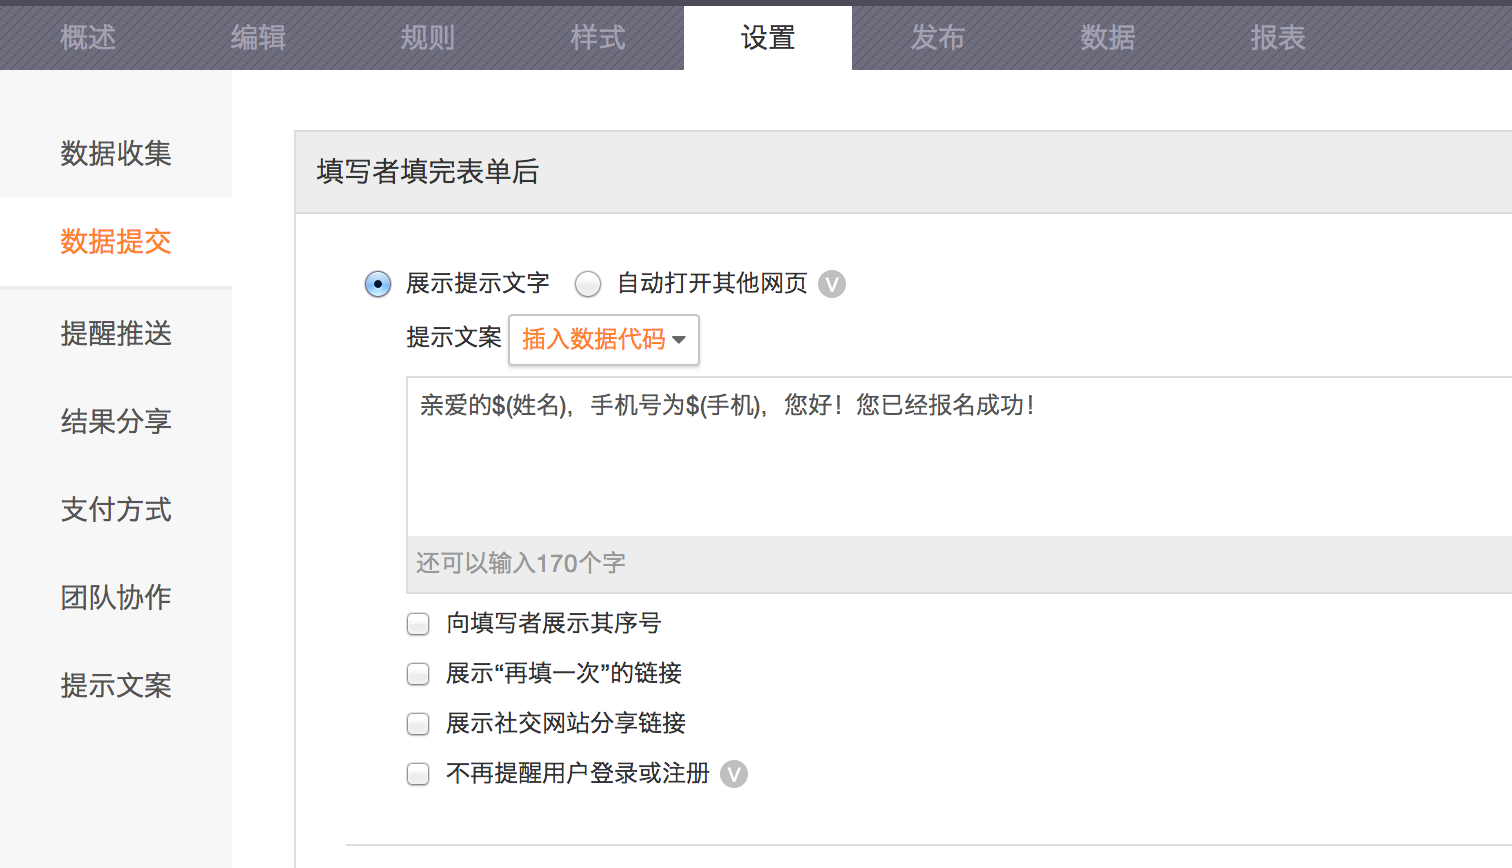
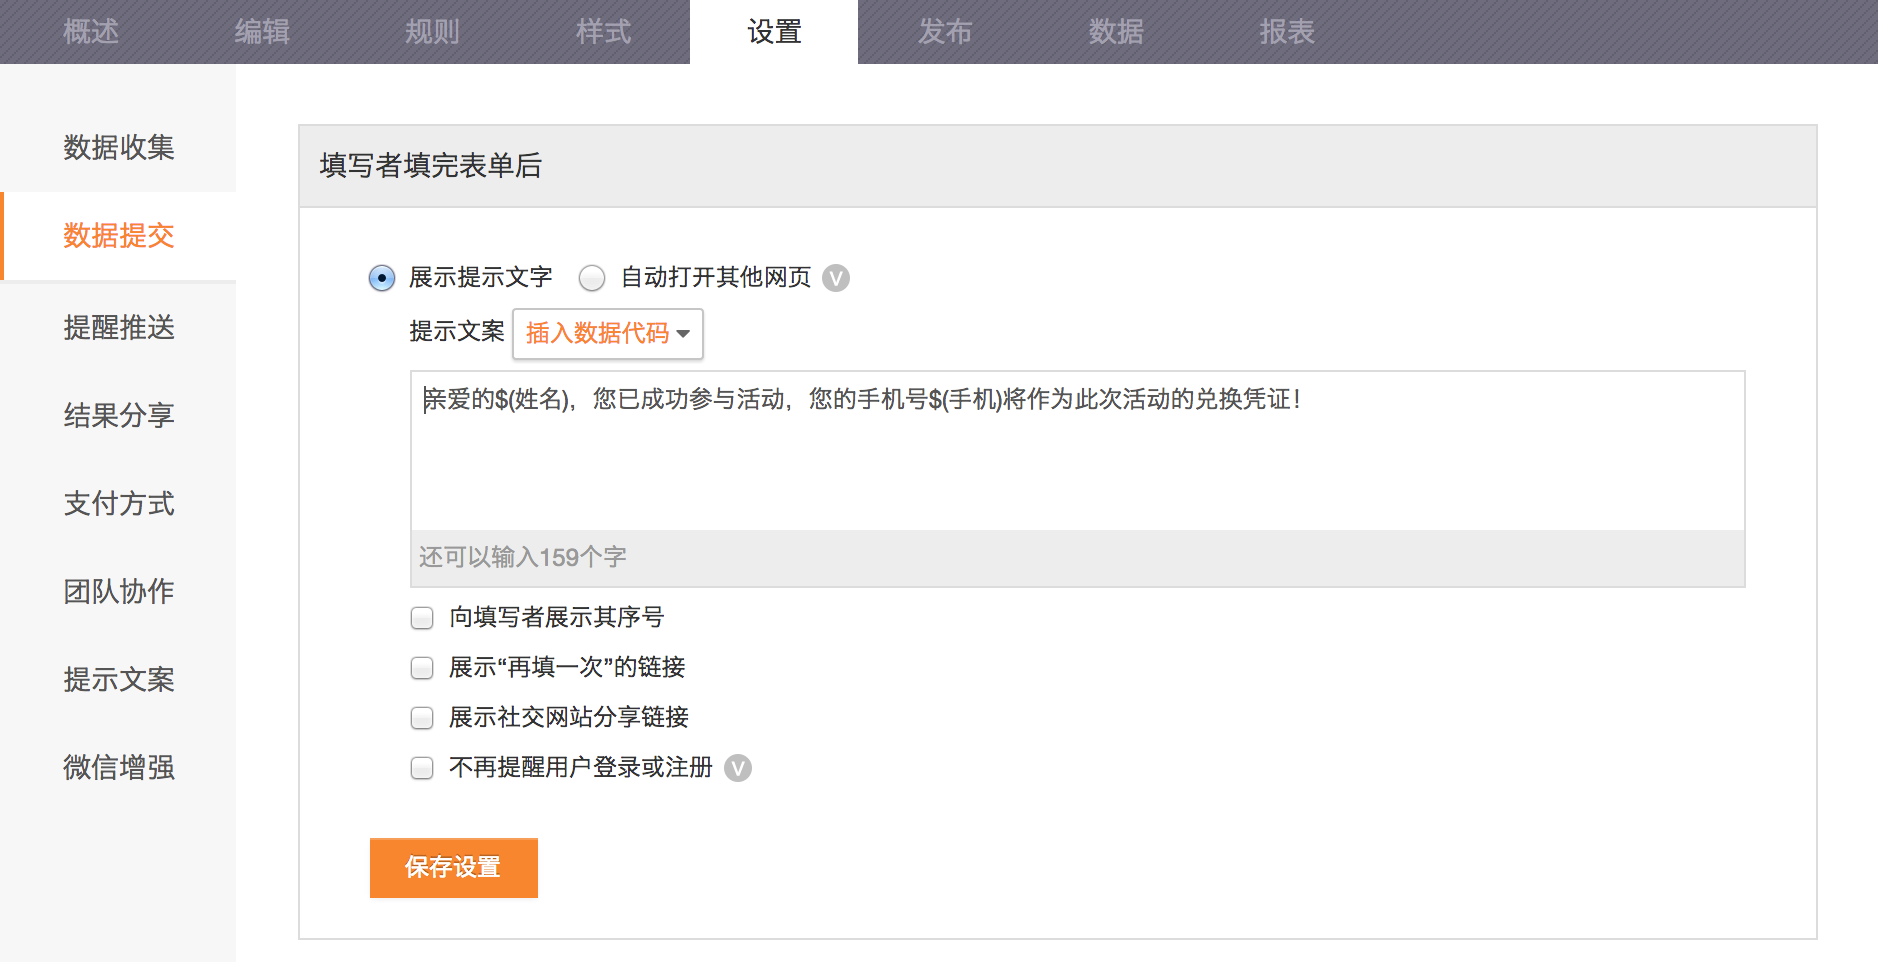
rewrite customize-texts

diff --git a/_posts/2014-2-7-customize-texts.md b/_posts/2014-2-7-customize-texts.md
@@ -1,24 +1,25 @@
 ---
 layout: post
-title:  "自定义显示文字"
-date:   2014-03-31 12:12:12
+title:  "自定义提示文字"
+date:   2014-09-26 12:00:03
 category: form
+tags: edited
 ---
 
-进入表单的设置页面 - 提示文案，您可以修改表单各个地方的提示文字。其中包括：
+为了满足您对表单进行深度定制的需求，我们现在允许您修改填表过程中各种各样的文字提示，例如对于订单，您可以把“提交”按钮自定义为“下单”，能让用户更清楚的了解你表单的用途。
 
-![](/images/customize-texts.png)
+### 表单中的提示文字
 
-* 填完表单后的提示文字
+进入表单的设置 - 提示文案页面，您可以修改表单各个地方的提示文字。下面是一个栗子：
 
-  填完表单后的提示文字，需要在数据提交页面下设置，具体设置如下：
+![](/images/customize-texts-1.png)
 
-  1.进入页面，点击展示提交文字，不仅可以插入文本，同时还可以用表单中的字段来定制成功消息。
-  ![](/images/customize-texts-2.png)
-  2.点击保存修改就好了，填表者提交表单就会看到如下页面。
-  ![](/images/customize-texts-3.png)
-* 表单提交按钮的文字
-* 表单暂未开放的提示
-* 表单停止提交的提示，包括提交时间已经截至，提交数据量已达上限，以及手动停止后的提示
-* 表单需凭密码填写时，给填表者的提示
-* 结果需凭密码查看时，访问结果页面的提示文字
+### 填表后的提示文字
+
+您如果想修改填表后的提示文字，则需要在设置－数据提交页面下设置，具体步骤如下：
+
+1. 点击展示提交文字，您不仅可以插入纯文本信息，也可以利用表单中的字段定制该文字。例如下图便是一个定制的栗子。
+	![](/images/customize-texts-2.png)
+
+2. 点击保存设置，我们来看看效果吧！
+	![](/images/customize-texts-3.png)
